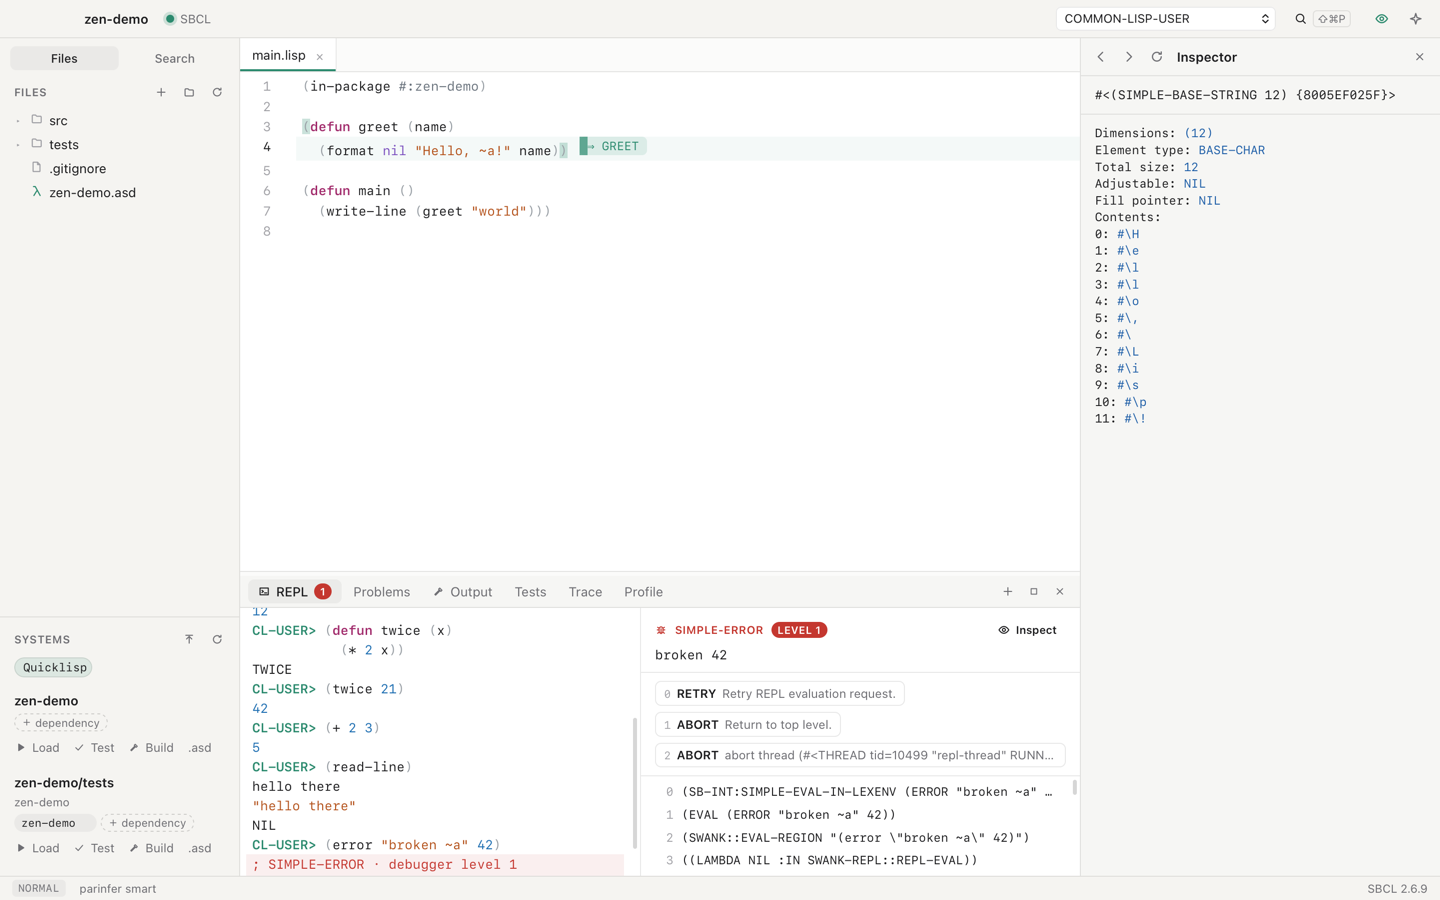
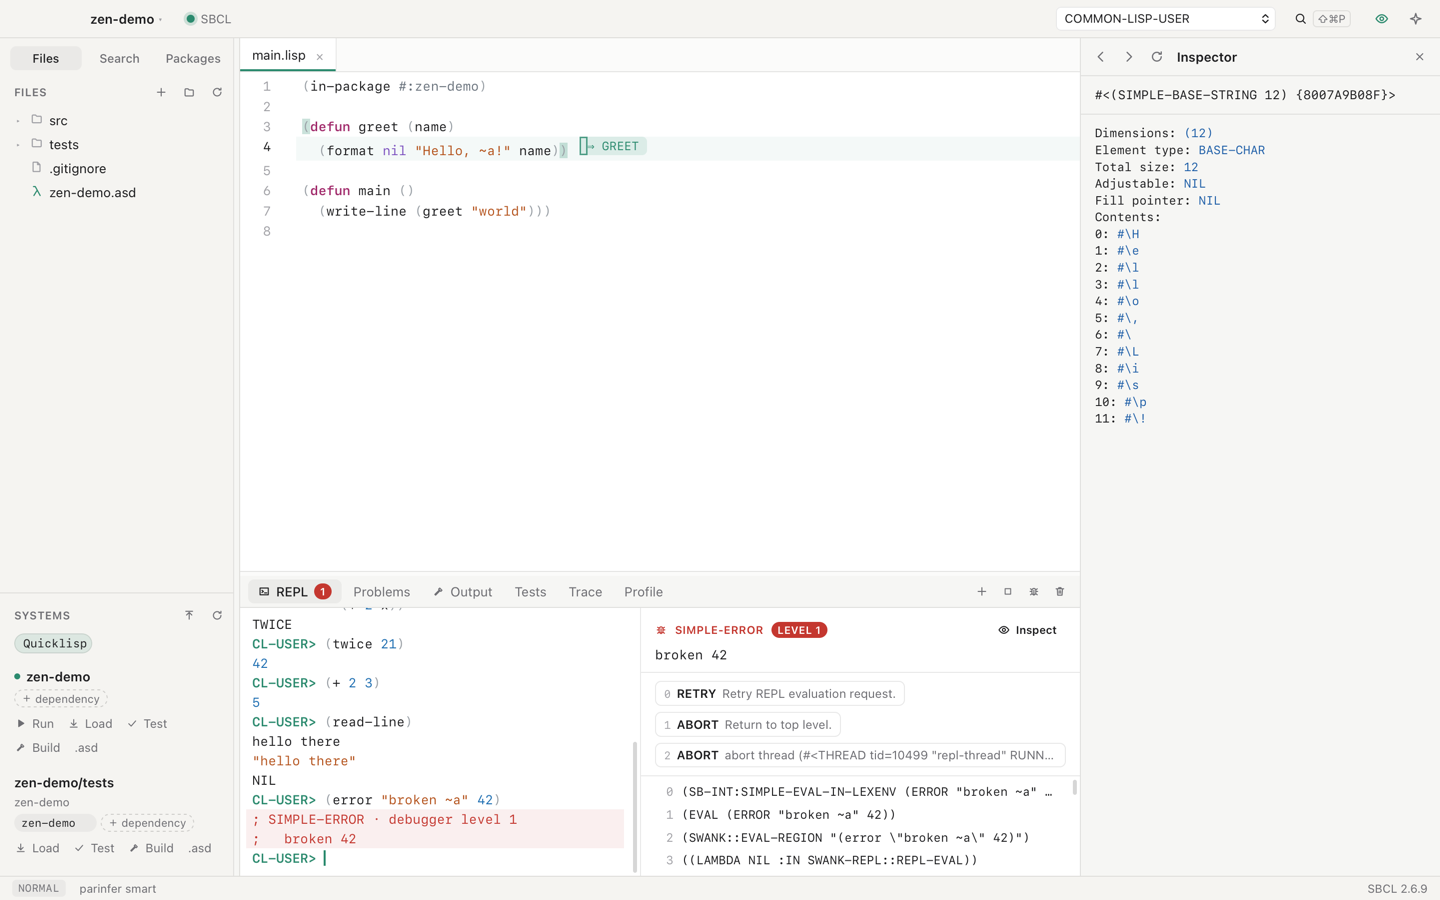
README tells why ZParen exists, shows its main features in screenshots, and explains the MCP token

diff --git a/README.md b/README.md
@@ -2,33 +2,35 @@
 
 ZParen is a Common Lisp IDE for macOS, built on SBCL. You work in one live
 image: evaluate a form, click the result to inspect the real object, stop in
-the debugger, fix the code, and restart the frame that failed. Claude can work
-in the same image, from the built-in assistant or from Claude Code over MCP.
+the debugger, fix the code, and restart the frame that failed.
+Claude and Codex can work in the same image, from the built-in assistant or
+over MCP.
 
-ZParen was called ZenLisp until October 2026. Its first start copies
-ZenLisp's settings, API keys, MCP token, themes, plugins and conversations.
-The old folders stay where they were.
+![The REPL beside the debugger, with its restarts and backtrace, and the inspector on the right](docs/screenshots/debugger.png)
 
-![The REPL, the debugger with its restarts and backtrace, and the inspector](docs/screenshots/debugger.png)
+## Why I made it
 
-## Written entirely by Claude Code
+I am very interested in Common Lisp. But I found it hard to set up Emacs or Vim
+so that they are easy to use for Lisp. After an upgrade, I often had to find
+the cause of strange errors, and that was frustrating.
 
-ZParen is a vibe-coding project. [Claude Code](https://claude.com/claude-code)
-wrote all of it: the Rust backend, the TypeScript UI, the Lisp that runs inside
-SBCL, the tests, the build and release scripts, and these docs. It ran on
-Claude Opus 5.5. The human author wrote no code. They asked for features,
-used the app, reported bugs, and made the product calls.
+So I decided to make an IDE that works the way I like.
 
-Claude Code worked in a fixed loop. It read the code, made a change, ran
-`scripts/verify.sh`, and committed only when every check passed. Bugs were
-reproduced first, in the browser build driven by Playwright or against a real
-SBCL, and fixes come with tests.
+## Claude Code helped me build it in a weekend
+
+I subscribe to Claude Code, so I used it to build ZParen from scratch.
+
+I used pstack and told Claude Code to "create an IDE to edit, debug and manage
+Common Lisp projects". That is a shorter version of what I wrote.
+
+After some experiments, I also chose Rust and Tauri for the app.
+Some people may ask why I did not write all of it in Lisp. In my opinion, it is
+better to use the right tool for each job.
 
 ### Skills and agents involved
 
-Claude Code ran with the pstack plugin's `/pstack:poteto-mode`, which sets how
-it plans, builds and verifies work. It loaded these skills while building
-ZParen:
+With pstack's `/pstack:poteto-mode`, Claude Code kept working while I slept.
+It loaded these skills while it built ZParen:
 
 | Skill | What it was used for |
 | --- | --- |
@@ -41,17 +43,27 @@ ZParen:
 | `claude-api` | The built-in assistant's Anthropic API client, model and streaming |
 | Principles | `prove-it-works`, `foundational-thinking`, `model-the-domain`, `experience-first`, `exhaust-the-design-space`, `sequence-verifiable-units`, `laziness-protocol`, `build-the-lever`, `boundary-discipline`, `test-behavior-not-implementation`, `never-block-on-the-human` |
 
-Subagents took on separate pieces. Each coding agent worked in its own git
-worktree:
+
+Subagents took on separate pieces. Each coding agent worked in its own git worktree:
 
 | Agent | Work |
 | --- | --- |
 | `pstack:poteto-agent` | The SLIME-compatible indentation engine, paredit-style structural editing, the parinfer wasm crate, and the MCP server with its shared tool registry |
-| `pstack:comment-sicko` | A pass that deleted comments restating the code |
+| `pstack:comment-sicko` | A pass that removed comments restating the code |
 | `Explore` | Research into the UX of other Lisp IDEs |
 | `general-purpose` | Side tasks, including an independent review of the decision trail |
 
-## What it does
+
+## The experience I wanted
+
+1. Vim keys come first.
+2. Emacs keys that make Lisp easy to edit.
+3. An AI assistant from the first day.
+4. MCP, so that external AI tools can work with ZParen.
+5. Helpful tools.
+6. Quicklisp, ocicl and qlot to manage packages.
+
+## What ZParen does
 
 - **REPL and inspector.** Results are live objects. Click one to use it in the
   next input, or ⌘-click it to inspect it. ⌃R searches earlier input. Extra REPLs run
@@ -86,13 +98,16 @@ worktree:
   loaded, and assistant conversations are kept, listed and continued.
 - **Mac app.** Signed releases that carry their own SBCL, and in-app updates.
 
-![Ask AI to fix: the assistant reads the warning and edits the file](docs/screenshots/ask-ai-to-fix.png)
+![Checking as you type: SBCL's warning marks the undefined variable, and the status bar shows the argument list](docs/screenshots/live-check.png)
 
-## Run it
+![Tests as a tree: a failed FiveAM check shows the form and why it failed, with Rerun failed](docs/screenshots/tests.png)
 
-You need Node.js, Rust and SBCL. ZParen looks for `sbcl` on `PATH`, then in
-`/opt/homebrew/bin`, `/usr/local/bin`, and `/opt/local/bin`. Release builds
-carry their own SBCL, so they run on Macs without one.
+![Macroexpansion in place under the form, with Step back, while GREET is traced](docs/screenshots/macrostep.png)
+
+## Build from the source
+
+You need Node.js, Rust and SBCL. ZParen looks for `sbcl` on `PATH`.
+Release builds carry their own SBCL, so they run on Macs without one.
 
 To build and open the app:
 
@@ -118,8 +133,8 @@ files asks to save them first.
 
 A new project has an ASDF system, a test system, and an executable build
 target. It takes its dependencies from Quicklisp, or from ocicl with each
-version pinned in `ocicl.csv`. To use ocicl, run `brew install ocicl` and
-`ocicl setup` once.
+version pinned in `ocicl.csv`.
+To use ocicl, run `brew install ocicl` and `ocicl setup` once.
 
 ZParen finds the dependency manager from the files in the project root:
 
@@ -164,15 +179,28 @@ Claude, ZParen also uses `ANTHROPIC_API_KEY`, `ANTHROPIC_AUTH_TOKEN`, or an
 Both providers use the same tools as the MCP server below. Code proposed in a
 reply has **Insert** and **Eval** buttons.
 
-To let Claude Code work in your image, copy the command from the assistant
-settings and run it in a terminal. It looks like this:
+![The assistant evaluates (* 6 7) in the live image and offers code with Copy, Insert and Eval](docs/screenshots/assistant.png)
+
+To let Claude Code work in your image, register ZParen's MCP server once:
+
+1. Open the assistant with ⌘L.
+2. Click the gear icon at the top of the assistant panel.
+3. Under **Use Claude Code with this image**, click **Copy command**.
+4. Paste the command in a terminal and run it.
+
+The command looks like this, with your token in place of `<token>`:
 
 ```sh
 claude mcp add --transport http zparen http://127.0.0.1:7337/mcp --header "Authorization: Bearer <token>"
 ```
 
-The server listens only on `127.0.0.1` and checks the token on every request.
-The token lives in `~/Library/Application Support/ZParen/mcp-token`.
+The token is a password that ZParen makes the first time its MCP server
+starts. The server listens only on `127.0.0.1` and refuses any request
+without the token, so other programs on your Mac cannot run code in your
+image. The token stays the same each time ZParen starts, so you register only once.
+It lives in `~/Library/Application Support/ZParen/mcp-token`, which only your
+user can read. If you remove that file, ZParen makes a new token, and you
+must register again. Keep the token out of chats and repositories.
 
 The tools are `eval`, `compile_form`, `describe_symbol`, `apropos`,
 `find_definitions`, `who_calls`, `macroexpand`, `list_packages`,
@@ -180,15 +208,21 @@ The tools are `eval`, `compile_form`, `describe_symbol`, `apropos`,
 `invoke_restart`, `read_file`, `edit_file`, and `list_files`.
 
 Every warning and error mark has an **Ask AI to fix** button. It shows in the
-hover box and in the box that opens when the cursor reaches a mark. It sends SBCL's message, the file, the line and the code to the
-assistant, which finds the cause and changes the file with `edit_file`. The
+hover box and in the box that opens when the cursor reaches a mark. It sends
+SBCL's message, the file, the line and the code to the assistant. The assistant
+finds the cause and changes the file with `edit_file`. The
 change shows in the editor at once, and one undo takes it back.
+
+![Ask AI to fix: the assistant reads the warning and edits the file](docs/screenshots/ask-ai-to-fix.png)
 
 ## Keys
 
 Press ⇧⌘/ for every shortcut, with a filter. The list comes from the same
-table that defines the bindings, so it is always current. These are the
-ones you use most:
+table that defines the bindings, so it is always current.
+
+![The shortcuts screen in the dark theme, with each command's key, Vim binding and Emacs sequence](docs/screenshots/shortcuts-dark.png)
+
+These are the ones you use most:
 
 | Action | Shortcut | Vim |
 | --- | --- | --- |
@@ -232,13 +266,17 @@ form, so `daf` and `cif` work as you would expect.
 The file tree creates, renames, and moves files to the Trash. When another
 program changes an open file, ZParen reloads it if you have no unsaved
 edits, and asks otherwise. It also asks before closing a file or quitting
-with unsaved changes. Files outside the project, such as SBCL's own sources opened by go to
-definition, are read-only and marked with a lock.
+with unsaved changes. Files outside the project are read-only and show a lock.
+SBCL's own sources, which go to definition can open, are an example.
 
 **Search** in the sidebar finds and replaces across the project, with the
 same `.gitignore` rules as ripgrep. The **Problems** panel lists compiler
 notes from every file. The trash button in the bottom panel clears whichever
 tab is showing.
+
+![One file edited in two panes, side by side](docs/screenshots/split-panes.png)
+
+![The git gutter and inline diff, with a Revert button on each change](docs/screenshots/git-diff.png)
 
 ## Architecture
 
@@ -333,7 +371,7 @@ the image and the app, so Gatekeeper opens them offline.
 
 To ship updates, make a key pair once with `npx tauri signer generate` and
 keep the private half safe. Builds made with the update variables check for a
-newer release at launch and from ZParen ▸ Check for Updates…, and install only
+newer release when they start and from ZParen ▸ Check for Updates…, and install only
 archives signed with that key:
 
 ```sh
